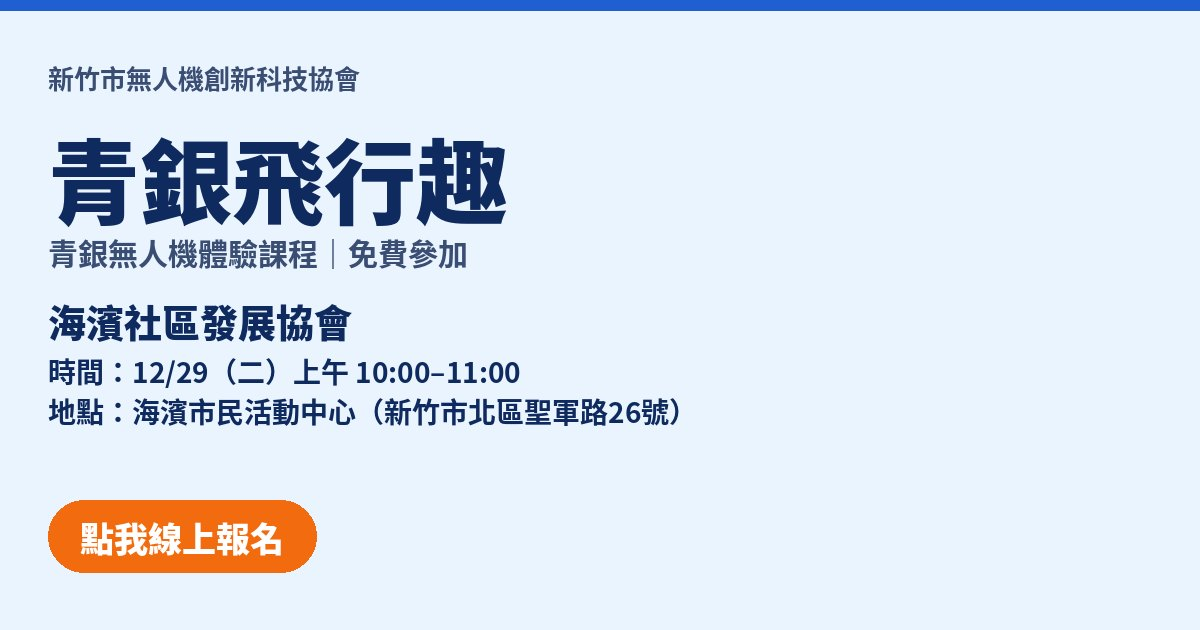
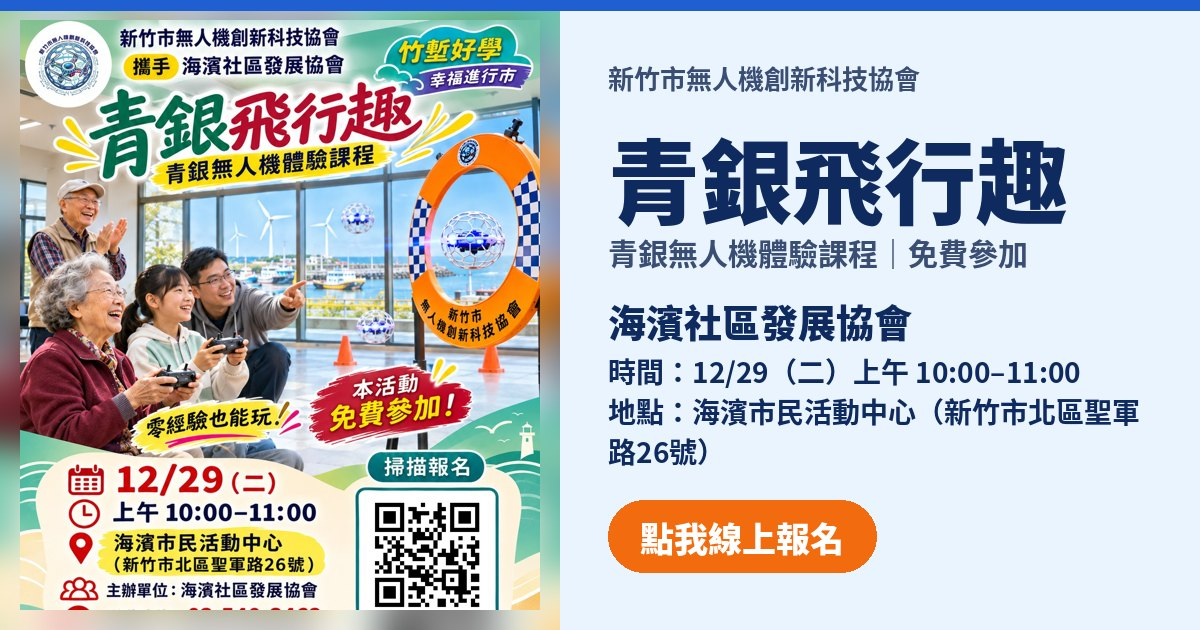
海濱：海報 poster-haibin.jpg（正式Logo＋QR 驗證 pse.is/9wrzxx）、jpg v11、og 更新

diff --git a/index.html b/index.html
@@ -26,7 +26,7 @@
 // 有代碼 → 一打開就先下載海報，不等其他東西
 (function(){try{var c=(new URLSearchParams(location.search).get("c")||"").trim().toLowerCase();
 if(!c){location.replace("admin.html");return;}
-if(c){var l=document.createElement("link");l.rel="preload";l.as="image";l.href="poster-"+encodeURIComponent(c)+".jpg?v=10";document.head.appendChild(l);}}catch(e){}})();
+if(c){var l=document.createElement("link");l.rel="preload";l.as="image";l.href="poster-"+encodeURIComponent(c)+".jpg?v=11";document.head.appendChild(l);}}catch(e){}})();
 </script>
 <style>
 :root{
@@ -307,7 +307,7 @@ footer a{font-family:var(--f-round);font-weight:400;font-size:24px;color:var(--r
     setTitle(c);
     document.title = (evTitle(c).replace("|", "") || "活動") + "報名｜" + c.name;
     // 海報：poster-社區代碼.jpg，有就整張顯示在最上面
-    const src = "poster-" + encodeURIComponent(c.code) + ".jpg?v=10"; // 換海報時把 v 加 1（跟上面 preload 一起改）
+    const src = "poster-" + encodeURIComponent(c.code) + ".jpg?v=11"; // 換海報時把 v 加 1（跟上面 preload 一起改）
     const img = $("#poster");
     if (img.dataset.src !== src) {
       img.dataset.src = src;
